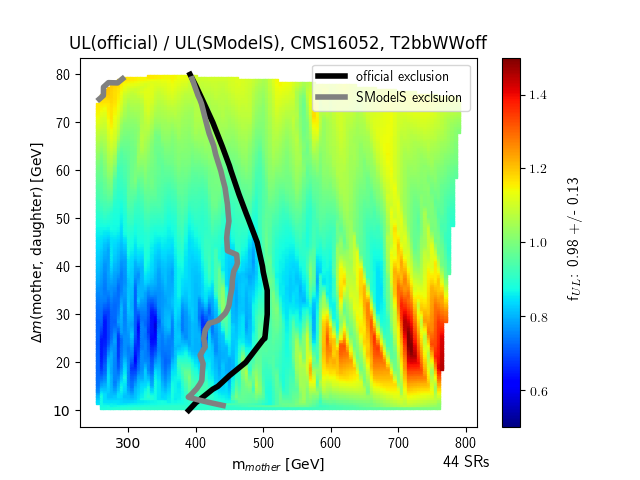
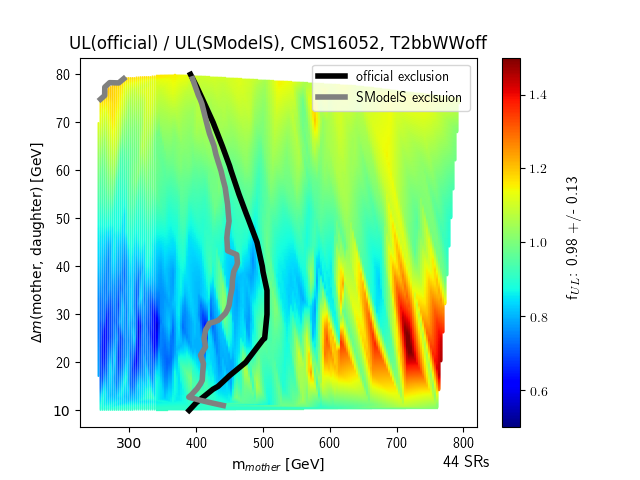
yau

diff --git a/covariances/plotRatio.py b/covariances/plotRatio.py
@@ -173,8 +173,8 @@ def main():
     x = points[::,1].tolist()
     y = points[::,0].tolist()
     col = points[::,2].tolist()
-    x_ = numpy.arange ( min(x), max(x), 5. )
-    y_ = numpy.arange ( min(y), max(y), .5 )
+    x_ = numpy.arange ( min(x), max(x), 3. )
+    y_ = numpy.arange ( min(y), max(y), .05 )
     yx = numpy.array(list(itertools.product(y_,x_)) )
     x = yx[::,1]
     y = yx[::,0]
@@ -188,7 +188,7 @@ def main():
     # cm = plt.cm.get_cmap('RdYlGn')
     # scatter = plt.contourf( x, y, col, cmap=cm, vmin=0.5, vmax=1.5, gridsize=30, bins=None )
     # scatter = plt.hexbin( x, y, C=col, cmap=cm, vmin=0.5, vmax=1.5, gridsize=80, bins=None )
-    scatter = plt.scatter ( x, y, s=5., c=col, marker="s", cmap=cm, vmin=0.5, vmax=1.5 )
+    scatter = plt.scatter ( x, y, s=0.25, c=col, marker="s", cmap=cm, vmin=0.5, vmax=1.5 )
     plt.rc('text', usetex=True)
     slhafile=FromEff.validationData[0]["slhafile"]
     Dir=os.path.dirname ( FromEff.__file__ )
